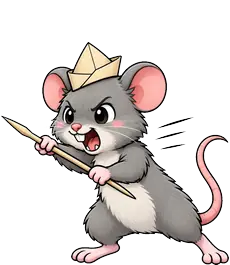
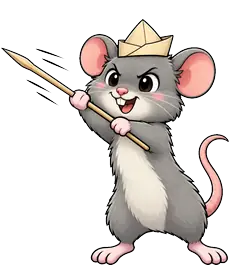
魔物出招圖變矮（使用者回報）：老鼠、貓草蟲、傀儡師三張攻擊圖重生成直立姿勢，匯入工具加閘門
- 量了 102 隻每個姿勢在遊戲框裡的實際高度，今天才變矮的只有 d 批 8 張裡的 3 張（84%／86%／88%）：
  姿勢畫成橫向撲出，add_sprite 塞進待機高度的畫布只能整隻縮小；根因在姿勢不在程式
- make_audit_art_0914.py 加 e 批（提示詞明講至少跟參考圖一樣高、直立出招）；重生後 93%／100%／99%
- add_sprite.py：魔物 attack／block 主體矮過待機一成就停，--allow-shorter 才放行（用今晚那張老鼠驗過會擋）
- 進度紀錄補第十節（含菲菲機器人估值修正前後的 600 局數字）；牌池總表／怪物工作檯是測試重產的

diff --git a/tools/make_audit_art_0914.py b/tools/make_audit_art_0914.py
@@ -179,18 +179,42 @@ elif batch == 'c':
         t = swap(t, 'Output 1024x820 PNG.', NO_PANEL + 'Output 1024x820 PNG.', fid)
     jobs[fid] = {'prompt': t, 'ref': FF_SHEET}
 
-elif batch == 'd':
+elif batch in ('d', 'e'):
     MONSTER_REFS.mkdir(parents=True, exist_ok=True)
-    ATTACKS = {
-        'catgrass_bug': 'lunging forward with its jaws wide open to BITE, body stretched toward the left, its leaf-blades raised',
-        'hibernating_bear': 'rearing up and swinging one huge paw down in a heavy SLAP, mouth open in a roar, its hat and scarf flying back',
-        'rat': 'springing forward to GNAW, front teeth bared, little paws thrust out, its paper hat still on its head',
-        'roomba_king': 'charging forward with its spinning brushes whirling into a blur, crown tilted, eyes fierce',
-        'stone_lion': 'rearing back on its hind legs and slamming one heavy stone forepaw down toward the left, mouth open in a roar, a few stone chips flying',
-        'tadpole': 'lunging forward to BITE with its mouth open and its tail whipping up behind it, its little hat still on',
-        'vacuum': 'ramming forward nozzle-first with a burst of motion lines, its hose swung up like a blade',
-        'puppeteer': 'thrusting a long needle forward with one hand while the other hand jerks the puppet strings taut, robe swirling',
-    }
+    if batch == 'd':
+        ATTACKS = {
+            'catgrass_bug': 'lunging forward with its jaws wide open to BITE, body stretched toward the left, its leaf-blades raised',
+            'hibernating_bear': 'rearing up and swinging one huge paw down in a heavy SLAP, mouth open in a roar, its hat and scarf flying back',
+            'rat': 'springing forward to GNAW, front teeth bared, little paws thrust out, its paper hat still on its head',
+            'roomba_king': 'charging forward with its spinning brushes whirling into a blur, crown tilted, eyes fierce',
+            'stone_lion': 'rearing back on its hind legs and slamming one heavy stone forepaw down toward the left, mouth open in a roar, a few stone chips flying',
+            'tadpole': 'lunging forward to BITE with its mouth open and its tail whipping up behind it, its little hat still on',
+            'vacuum': 'ramming forward nozzle-first with a burst of motion lines, its hose swung up like a blade',
+            'puppeteer': 'thrusting a long needle forward with one hand while the other hand jerks the puppet strings taut, robe swirling',
+        }
+        HEIGHT = 'Fill the frame vertically.\n'
+    else:
+        # e（2026-09-14 深夜，使用者：「有些怪物攻擊時的動作變得比待機小」）：d 批這三張畫成**橫向撲出**
+        #（老鼠伏低刺矛、貓草蟲趴平張口、傀儡師針伸長），主體比寬還高不了，add_sprite 塞進待機的畫布
+        # 只能整隻縮小——遊戲裡一出招就矮一截（老鼠 84%、傀儡師 86%、貓草蟲 88%）。
+        # 修法在**姿勢**：出招改成直立、後仰、抬高，提示詞明講「至少跟參考圖一樣高」。
+        # 其他五隻（熊、掃地機、石獅、蝌蚪、吸塵器）都在 97%～101%，不動。
+        ATTACKS = {
+            'rat': 'rearing up TALL on its hind legs to its full height, body upright and stretched upward, both little '
+                   'paws thrusting its wooden spear forward at the enemy, front teeth bared, its paper hat still on its '
+                   'head; the figure is clearly taller than it is wide',
+            'catgrass_bug': 'rearing the front third of its grassy body UP high, jaws wide open to BITE, the rest of its '
+                            'body still stretched along the ground exactly as long as in the reference; it must stand as '
+                            'tall as the reference or taller, never flatter',
+            'puppeteer': 'standing TALL and upright at full height, one hand raised high above its head yanking the puppet '
+                         'strings taut, the other hand thrusting a long needle forward at chest height, robe swirling; the '
+                         'wooden puppet dangles beside it; the figure is clearly taller than it is wide',
+        }
+        HEIGHT = ('Fill the frame from the very top to the very bottom: the creature must be AT LEAST AS TALL as in the '
+                  'reference image, with its head at the same height or higher and its body the same size. Show the attack '
+                  'with an upright, rearing or stepping pose - NOT by stretching the body sideways, leaning far forward or '
+                  'crouching lower. A wide, flat pose gets shrunk to fit in the game and the monster looks smaller the '
+                  'moment it attacks; that is wrong.\n')
     for mid, desc in ATTACKS.items():
         idle = ROOT / 'public' / 'assets' / 'monsters' / f'{mid}_idle.webp'
         if not idle.exists():
@@ -210,7 +234,7 @@ elif batch == 'd':
             f'Pose: ATTACKING - {desc}. The attack must read at a glance (strong forward motion, a few short solid '
             'motion lines), but keep the design identical to the reference.\n\n'
             'It stands on the ground with its feet at the very bottom edge of the picture - do not draw it floating. '
-            'Full body, facing LEFT. Fill the frame vertically.\n'
+            'Full body, facing LEFT. ' + HEIGHT +
             'Keep the same overall orientation and proportions as the reference: if the creature lies down, sprawls, or '
             'is wider than it is tall in the reference, keep it exactly that way - do NOT stand it up and do NOT make it '
             'shorter. Only ONE creature in the picture.\n'
@@ -221,7 +245,7 @@ elif batch == 'd':
             f'Output 1024x1024 PNG. Save the image as {fid} in the current directory and report the path.'),
             'ref': ref.relative_to(ROOT).as_posix()}
 else:
-    raise SystemExit('要指定批次：a（事件開場與結果）、b（村貓回禮結果，等 a 進倉）、c（牌面）、d（魔物攻擊）')
+    raise SystemExit('要指定批次：a（事件開場與結果）、b（村貓回禮結果，等 a 進倉）、c（牌面）、d（魔物攻擊）、e（d 批畫矮的三張重生）')
 
 # ======================= 自檢：一律 SystemExit =======================
 for fid, job in jobs.items():

diff --git a/tools/add_sprite.py b/tools/add_sprite.py
@@ -79,6 +79,8 @@ def main() -> None:
                     help="monsters＝每隻照自己的 <id>_idle.webp 貼，輸出 public/assets/monsters/<id>_<pose>.webp")
     ap.add_argument("--check", action="store_true", help="只量不寫：每張在遊戲框裡畫多高、帶綠與半透明像素，對照基準")
     ap.add_argument("--baseline", default=None, help="同組的一張現成 webp 檔名（不含副檔名），畫布照它；預設 boss=idle1、hero=ninja_attack、shop=keeper")
+    ap.add_argument("--allow-shorter", action="store_true",
+                    help="魔物的 attack／block 主體矮過待機一成本來會停（遊戲裡看起來變小），確定要這樣才加")
     ap.add_argument("--refit", action="store_true",
                     help="來源改成同組現成的 webp（已去背），把主體高度縮放到跟基準圖一樣、貼回基準畫布。"
                          "球球的待機批畫布 1005×1037、出招批 640×625，同一個框裡貓會差兩成（使用者 2026-09-08：忽大忽小），用這個把站姿全部對齊")
@@ -150,6 +152,15 @@ def main() -> None:
             k = min(max_w / im.width, max_h / im.height)
             im = im.resize((max(1, round(im.width * k)), max(1, round(im.height * k))), Image.LANCZOS)
             print(f"  {raw_name} 比畫布大，等比縮到 {im.size}")
+        # 出招／防禦圖在遊戲裡會比待機矮多少（2026-09-14 深夜，使用者：「有些怪物攻擊時的動作變得比待機小」）。
+        # 畫布高度跟待機一樣、寬度最多放到框的比例，所以 contain 的縮放率兩張相同，
+        # 「主體高 ÷ 待機主體高」就是玩家看到的比例。姿勢畫成橫向撲出（老鼠伏低刺矛、傀儡師針伸長）
+        # 主體比寬還高不了，上面那一步只能整隻縮小——矮過一成就停下來，不要靜靜進倉。
+        if group == "monsters" and pose in ("attack", "block") and im.height < base_h * 0.9 and not args.allow_shorter:
+            raise SystemExit(
+                f"!! {raw_name}：這張 {pose} 在遊戲裡只有待機的 {im.height / base_h:.0%} 高（主體 {im.height} 對 {base_h}）——"
+                "多半是姿勢畫得比高還寬，塞進框裡整隻被縮小。重生成直立的姿勢（提示詞寫「至少跟參考圖一樣高」，"
+                "見 make_audit_art_0914.py 的 e 批）；確定就是要矮的話加 --allow-shorter")
         canvas = Image.new("RGBA", (cw, ch), (0, 0, 0, 0))
         canvas.paste(im, ((cw - im.width) // 2, ch - bottom_pad - im.height), im)
         if group == "monsters":

diff --git a/docs/進度紀錄_2026-09-14夜間.md b/docs/進度紀錄_2026-09-14夜間.md
@@ -235,3 +235,34 @@
 兩個網站各自保住存檔（`base` 與存檔前綴照部署倉庫自動決定，環境變數傳倉庫名不傳路徑——Git Bash 會把路徑換掉）。
 **`coop` 已併回 `main`，兩個網站都上線**（單機版用 main 產的舊存檔驗過續玩）。稽核抓到的 16 張圖全部重生進倉（`tools/make_audit_art_0914.py`）。
 之後流程：在 `coop` 開發 → `sh tools/deploy.sh` → 到 `F:\ClaudeWork\qiuqiu-tower` `git merge coop` → `sh tools/deploy.sh origin main`。
+
+
+---
+
+## 十、9/14 深夜：魔物出招圖變矮（使用者回報）＋菲菲三張牌回寫＋機器人估值
+
+**使用者：「有些怪物攻擊或防禦時的動作變得比待機小，原本不會」。** 量了 102 隻魔物每個姿勢在遊戲框裡實際畫出來的高度
+（`object-fit: contain` 塞進 `.unit.size-*` 的框，主體高 × 縮放率），今天才變矮的只有第九節 d 批那 8 張攻擊圖裡的 3 張：
+老鼠 84%、傀儡師 86%、貓草蟲 88%（其他五隻 97%～101%）。防禦圖這幾天沒動過；出招圖優先於防禦圖，看到的「防禦變小」就是這幾隻出招那一拍。
+
+- **根因在姿勢，不在程式**：那三張畫成橫向撲出（老鼠伏低刺矛、傀儡師針伸長、貓草蟲趴平），比寬還高不了；`add_sprite.py` 把圖塞進
+  跟待機一樣高、寬度最多放到框比例的畫布，太寬只能整隻縮小。以前那幾張雖然畫成別的生物，但都是直立構圖，所以沒事。
+  `--refit` 也救不了：先縮到待機高度、再為了塞進寬度縮回去。
+- **修**：`make_audit_art_0914.py` 加 e 批（提示詞明講「至少跟參考圖一樣高、直立／後仰出招」），三張重生後進倉：
+  老鼠 93%、貓草蟲 100%、傀儡師 99%；舊原稿留 `.previous-20260914e.png`。
+- **閘門**：`add_sprite.py` 匯入魔物的 attack／block 時，主體矮過待機一成就 `SystemExit`（用今晚那張老鼠試過會擋），
+  確定要矮才加 `--allow-shorter`；`hurt`／`down` 不管（趴平、縮成一團本來就矮）。`build_art_inbox.py` 那條路沒加。
+
+**菲菲三張牌的修圖回寫**：`make_feifei_shared_card_jobs.SCENE_FIX` 改成每張一串 (原文, 新文)，九尾針／毒發／釘尾巴
+「大物件」與「貓在做什麼」兩行都換；重產工單只有這三張變、跟 `feifei_fix_0914.json` 逐字相同。`make_feifei_fix_0914.py` 遇到已修好的來源直接放行。
+
+**機器人估值（第六節留的兩條）**：①她的起手牌沒在 `RATING` 裡、預設 4，永遠不算廢牌不放生 → 照球球對應牌評（飛針 2、退開 2、淬毒 3）；
+②見血封喉／一針斃命在 `damageTo` 算過一次、switch 裡又加一次 → switch 那份拿掉。`smart.report.test` 加 `SMART_HERO`。600 局兩顆種子：
+
+| | 到第二關 | 到第三關 | 通關 |
+|---|---|---|---|
+| 球球（不受這兩條影響） | 44%／43% | 14%／14% | 2.0%／2.5% |
+| 菲菲・修前 | 81%／77% | 30%／26% | 4.2%／3.3% |
+| 菲菲・修後 | 81%／76% | 27%／22% | 2.0%／1.0% |
+
+修後她前期還是比球球輕鬆一倍，通關率掉到跟球球一樣或更低——前期太簡單、後期撐不住，跟使用者說的「難度曲線未決」一致。她死最多的是龍貓、牛貓塔主、咒僧、狸大人；球球死最多的是橘王、貓又、蛙大名。
